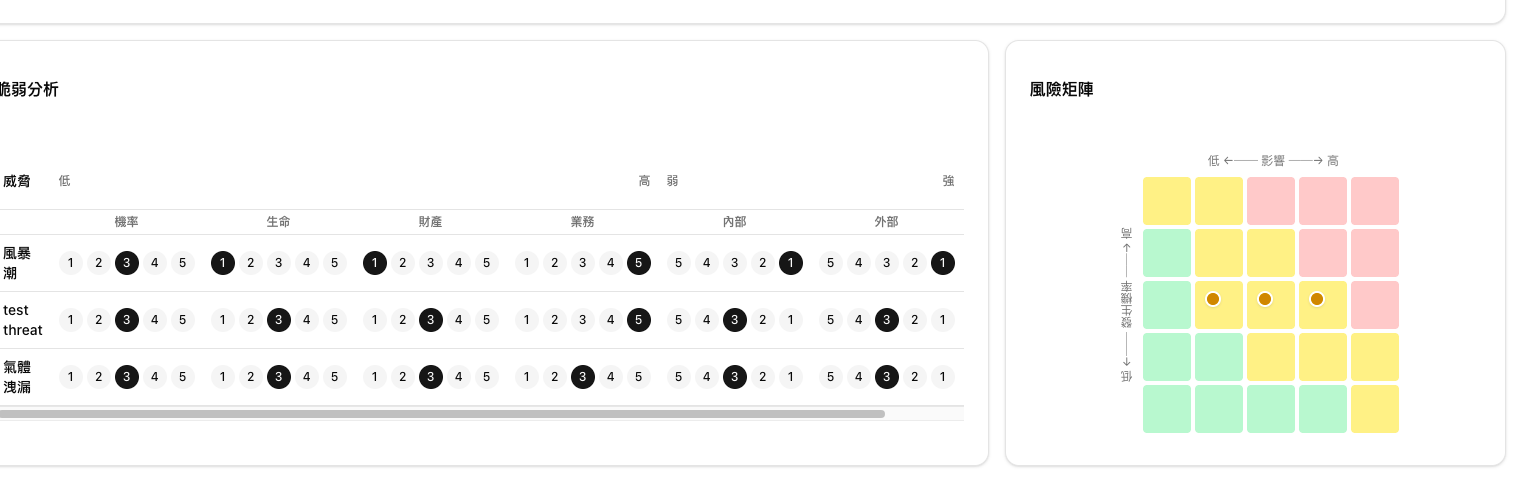
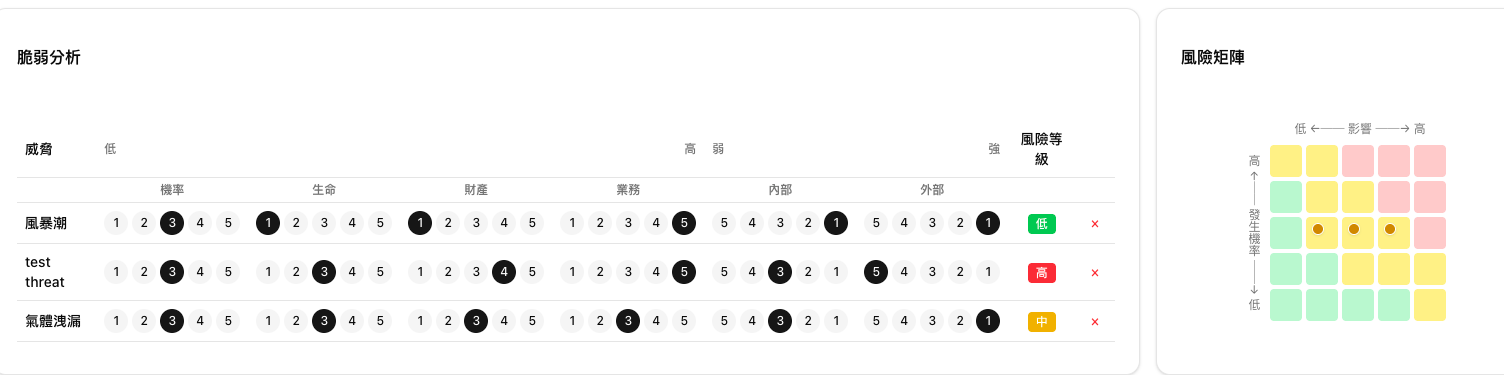
Pass entries prop to RiskMatrix for reactive updates
- Add entries prop to RiskMatrix component
- Pass entries directly from SinglePageView
- Ensures matrix updates when ratings change

🤖 Generated with [Claude Code](https://claude.com/claude-code)

diff --git a/src/components/risk-matrix/RiskMatrix.tsx b/src/components/risk-matrix/RiskMatrix.tsx
@@ -16,6 +16,7 @@ import {
 interface RiskMatrixProps {
   onCellClick?: (x: number, y: number) => void;
   selectedCell?: { x: number; y: number } | null;
+  entries?: ThreatEntry[];
 }
 
 const CELL_COLORS: Record<RiskLevel, string> = {
@@ -30,8 +31,9 @@ const MARKER_COLORS: Record<RiskLevel, string> = {
   high: 'bg-red-600',
 };
 
-export function RiskMatrix({ onCellClick, selectedCell }: RiskMatrixProps) {
-  const { entries, language } = useRiskRegister();
+export function RiskMatrix({ onCellClick, selectedCell, entries: propEntries }: RiskMatrixProps) {
+  const { entries: storeEntries, language } = useRiskRegister();
+  const entries = propEntries ?? storeEntries;
 
   // Create 5x5 grid (x: impact 1-5, y: probability 1-5)
   const grid = [];

diff --git a/src/components/expert/SinglePageView.tsx b/src/components/expert/SinglePageView.tsx
@@ -253,7 +253,7 @@ export function SinglePageView() {
             <CardTitle className="text-base">{t('riskMatrix', language)}</CardTitle>
           </CardHeader>
           <CardContent className="flex justify-center py-2">
-            <RiskMatrix key={entries.map(e => `${e.id}-${e.probability}-${e.impactLife}-${e.impactAsset}-${e.impactBusiness}`).join(',')} />
+            <RiskMatrix entries={entries} />
           </CardContent>
         </Card>
       </div>
